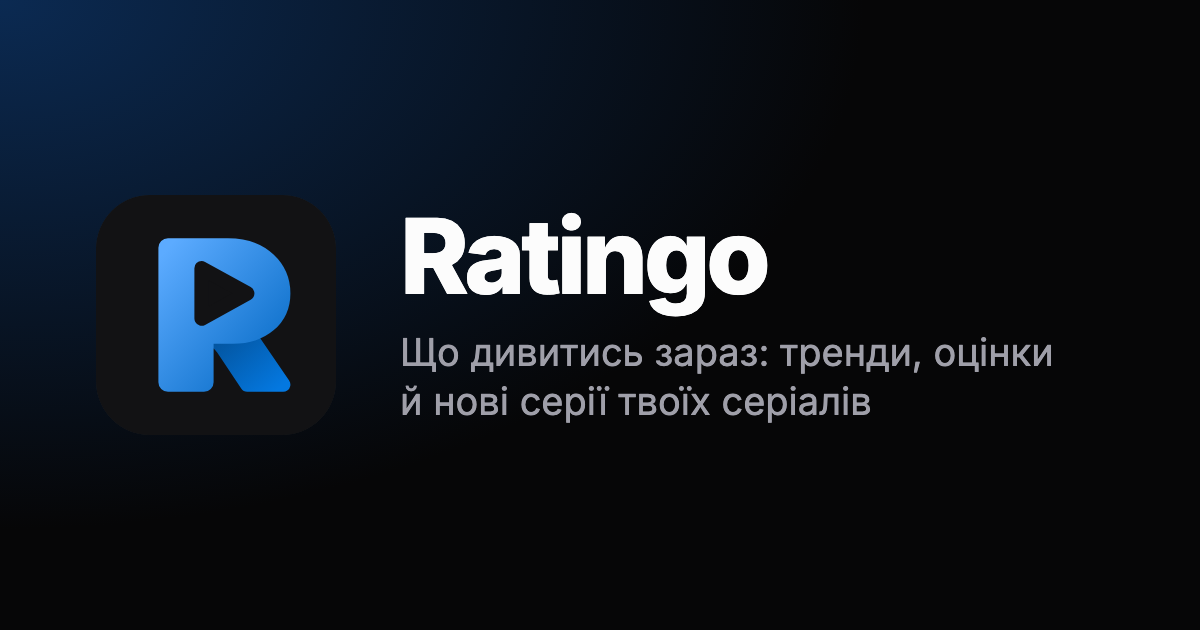
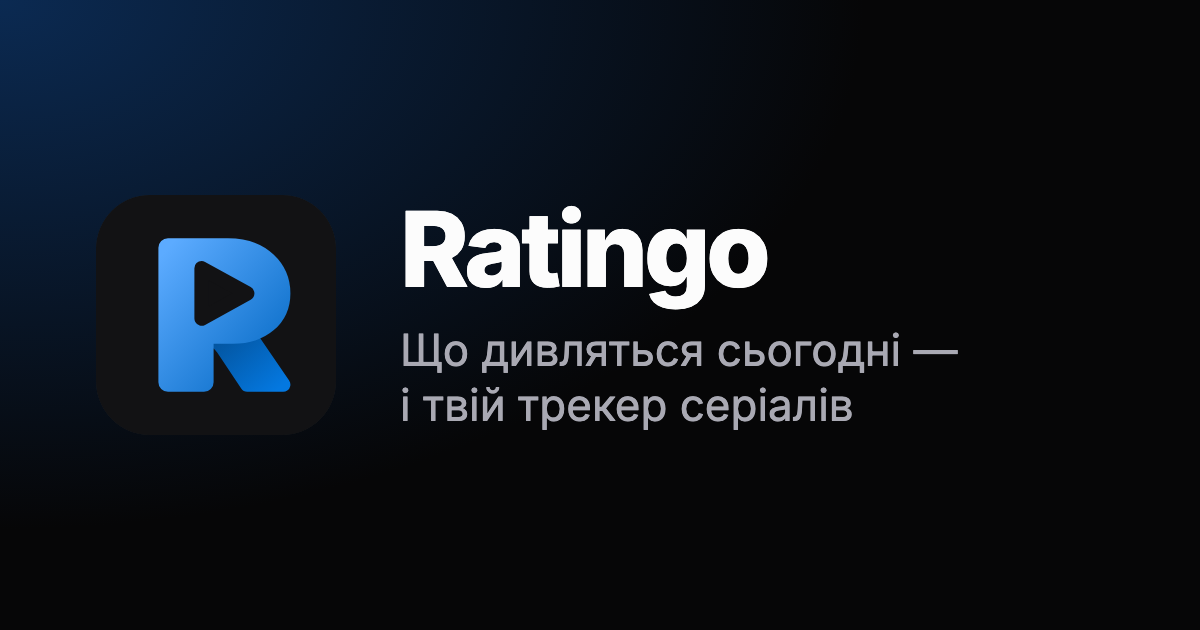
feat(storefront): warmer share copy and complete Open Graph tags
- New tagline "Що дивляться сьогодні — і твій трекер серіалів" on the share
  image, manifest and footer; new home title and description (uk/en)
- buildOpenGraph gives home, browse and calendar the site name, type,
  locale, brand image and their canonical og:url
- Home gets its own canonical URL

Changed region(s): [[0.3392, 0.5127, 0.8942, 0.6937], [0.3392, 0.3317, 0.6475, 0.5127]]

diff --git a/apps/storefront/src/shared/lib/seo/root-metadata.ts b/apps/storefront/src/shared/lib/seo/root-metadata.ts
@@ -1,6 +1,7 @@
 import type { Metadata } from 'next';
 import { BRAND_NAME } from '@/shared/config';
 import type { Dictionary, Locale } from '@/shared/i18n';
+import { buildOpenGraph } from './open-graph';
 import { DEFAULT_SHARE_IMAGE } from './share-image';
 
 export interface RootMetadataOptions {
@@ -11,11 +12,6 @@ export interface RootMetadataOptions {
 }
 
 const DATA_SOURCE_KEYWORDS = ['TMDB', 'Trakt', 'IMDb'];
-
-const OPEN_GRAPH_LOCALES: Record<Locale, string> = {
-  uk: 'uk_UA',
-  en: 'en_US',
-};
 
 const INDEXED_ROBOTS: Metadata['robots'] = {
   index: true,
@@ -62,12 +58,7 @@ export function buildRootMetadata({
     creator: BRAND_NAME,
     publisher: BRAND_NAME,
     metadataBase: new URL(siteUrl),
-    openGraph: {
-      type: 'website',
-      locale: OPEN_GRAPH_LOCALES[locale],
-      siteName: BRAND_NAME,
-      images: [DEFAULT_SHARE_IMAGE],
-    },
+    openGraph: buildOpenGraph({ locale }),
     twitter: { card: 'summary_large_image', images: [DEFAULT_SHARE_IMAGE] },
     icons: SITE_ICONS,
     robots: indexingEnabled ? INDEXED_ROBOTS : HIDDEN_ROBOTS,

diff --git a/apps/storefront/src/pages/browse/model/browse-metadata.ts b/apps/storefront/src/pages/browse/model/browse-metadata.ts
@@ -1,17 +1,23 @@
 import type { Metadata } from 'next';
 import { BRAND_NAME } from '@/shared/config';
 import { getDictionary, type Locale } from '@/shared/i18n';
-import { DEFAULT_SHARE_IMAGE } from '@/shared/lib';
+import { buildOpenGraph } from '@/shared/lib';
 import type { BrowseCategorySlug } from './browse-category';
 import { DEFAULT_BROWSE_STATE, browseHref } from './browse-state';
 
 export function browseMetadata(locale: Locale, slug: BrowseCategorySlug): Metadata {
   const { title, description } = getDictionary(locale).browse.categories[slug];
+  const canonical = browseHref(slug, DEFAULT_BROWSE_STATE);
 
   return {
     title,
     description,
-    alternates: { canonical: browseHref(slug, DEFAULT_BROWSE_STATE) },
-    openGraph: { title: `${title} | ${BRAND_NAME}`, description, images: [DEFAULT_SHARE_IMAGE] },
+    alternates: { canonical },
+    openGraph: buildOpenGraph({
+      locale,
+      title: `${title} | ${BRAND_NAME}`,
+      description,
+      url: canonical,
+    }),
   };
 }

diff --git a/apps/storefront/src/pages/calendar/model/calendar-metadata.ts b/apps/storefront/src/pages/calendar/model/calendar-metadata.ts
@@ -1,7 +1,7 @@
 import type { Metadata } from 'next';
 import { BRAND_NAME, CALENDAR_ROUTE } from '@/shared/config';
 import { getDictionary, type Locale } from '@/shared/i18n';
-import { DEFAULT_SHARE_IMAGE } from '@/shared/lib';
+import { buildOpenGraph } from '@/shared/lib';
 
 export function calendarMetadata(locale: Locale): Metadata {
   const { metaTitle: title, metaDescription: description } = getDictionary(locale).calendar;
@@ -10,6 +10,11 @@ export function calendarMetadata(locale: Locale): Metadata {
     title,
     description,
     alternates: { canonical: CALENDAR_ROUTE },
-    openGraph: { title: `${title} | ${BRAND_NAME}`, description, images: [DEFAULT_SHARE_IMAGE] },
+    openGraph: buildOpenGraph({
+      locale,
+      title: `${title} | ${BRAND_NAME}`,
+      description,
+      url: CALENDAR_ROUTE,
+    }),
   };
 }

diff --git a/apps/storefront/src/shared/lib/seo/open-graph.test.ts b/apps/storefront/src/shared/lib/seo/open-graph.test.ts
@@ -1,0 +1,24 @@
+import { buildOpenGraph } from './open-graph';
+import { DEFAULT_SHARE_IMAGE } from './share-image';
+
+describe('buildOpenGraph', () => {
+  it('keeps the site name, type, locale and brand image on every page', () => {
+    expect(buildOpenGraph({ locale: 'en' })).toEqual({
+      type: 'website',
+      siteName: 'Ratingo',
+      locale: 'en_US',
+      images: [DEFAULT_SHARE_IMAGE],
+    });
+  });
+
+  it('adds the page title, description and canonical URL when given', () => {
+    expect(
+      buildOpenGraph({ locale: 'uk', title: 'Календар', description: 'Розклад', url: '/calendar' }),
+    ).toMatchObject({
+      locale: 'uk_UA',
+      title: 'Календар',
+      description: 'Розклад',
+      url: '/calendar',
+    });
+  });
+});

diff --git a/apps/storefront/src/shared/lib/seo/open-graph.ts b/apps/storefront/src/shared/lib/seo/open-graph.ts
@@ -1,0 +1,33 @@
+import type { Metadata } from 'next';
+import { BRAND_NAME } from '@/shared/config';
+import type { Locale } from '@/shared/i18n';
+import { DEFAULT_SHARE_IMAGE } from './share-image';
+
+const OPEN_GRAPH_LOCALES: Record<Locale, string> = {
+  uk: 'uk_UA',
+  en: 'en_US',
+};
+
+interface OpenGraphOptions {
+  locale: Locale;
+  title?: string;
+  description?: string;
+  url?: string;
+}
+
+export function buildOpenGraph({
+  locale,
+  title,
+  description,
+  url,
+}: OpenGraphOptions): NonNullable<Metadata['openGraph']> {
+  return {
+    type: 'website',
+    siteName: BRAND_NAME,
+    locale: OPEN_GRAPH_LOCALES[locale],
+    images: [DEFAULT_SHARE_IMAGE],
+    ...(title && { title }),
+    ...(description && { description }),
+    ...(url && { url }),
+  };
+}

diff --git a/apps/storefront/src/pages/home/model/home-metadata.ts b/apps/storefront/src/pages/home/model/home-metadata.ts
@@ -1,0 +1,13 @@
+import type { Metadata } from 'next';
+import { HOME_ROUTE } from '@/shared/config';
+import { getDictionary, type Locale } from '@/shared/i18n';
+import { buildOpenGraph } from '@/shared/lib';
+
+export function homeMetadata(locale: Locale): Metadata {
+  const { title, description } = getDictionary(locale).meta;
+
+  return {
+    alternates: { canonical: HOME_ROUTE },
+    openGraph: buildOpenGraph({ locale, title, description, url: HOME_ROUTE }),
+  };
+}

diff --git a/apps/storefront/app/(shell)/page.tsx b/apps/storefront/app/(shell)/page.tsx
@@ -1,5 +1,10 @@
+import type { Metadata } from 'next';
 import { getRequestLocale } from '@/app/entrypoint';
-import { HomePage } from '@/pages/home';
+import { HomePage, homeMetadata } from '@/pages/home';
+
+export async function generateMetadata(): Promise<Metadata> {
+  return homeMetadata(await getRequestLocale());
+}
 
 export default async function HomeRoute() {
   return <HomePage locale={await getRequestLocale()} />;

diff --git a/apps/storefront/src/shared/lib/seo/index.ts b/apps/storefront/src/shared/lib/seo/index.ts
@@ -2,4 +2,4 @@ export { buildRobots, buildSitemap } from './crawling';
 export { JsonLd, buildOrganizationJsonLd, buildWebSiteJsonLd } from './json-ld';
 export { buildRootMetadata } from './root-metadata';
 export { createMediaMetadata } from './media-metadata';
-export { DEFAULT_SHARE_IMAGE } from './share-image';
+export { buildOpenGraph } from './open-graph';

diff --git a/apps/storefront/src/shared/config/brand.ts b/apps/storefront/src/shared/config/brand.ts
@@ -1,3 +1,3 @@
 export const BRAND_NAME = 'Ratingo';
 
-export const BRAND_TAGLINE = 'Що дивитись зараз: тренди, оцінки й нові серії твоїх серіалів';
+export const BRAND_TAGLINE = 'Що дивляться сьогодні\u00a0— і твій трекер серіалів';

diff --git a/apps/storefront/src/shared/lib/index.ts b/apps/storefront/src/shared/lib/index.ts
@@ -58,8 +58,8 @@ export {
 } from './navigation';
 export { createBatchLoader, preloadWhenIdle, whenIdleOnFastConnection } from './scheduling';
 export {
-  DEFAULT_SHARE_IMAGE,
   JsonLd,
+  buildOpenGraph,
   buildOrganizationJsonLd,
   buildRobots,
   buildRootMetadata,

diff --git a/apps/storefront/src/pages/home/index.ts b/apps/storefront/src/pages/home/index.ts
@@ -1,1 +1,2 @@
 export { HomePage } from './ui/home-page';
+export { homeMetadata } from './model/home-metadata';
